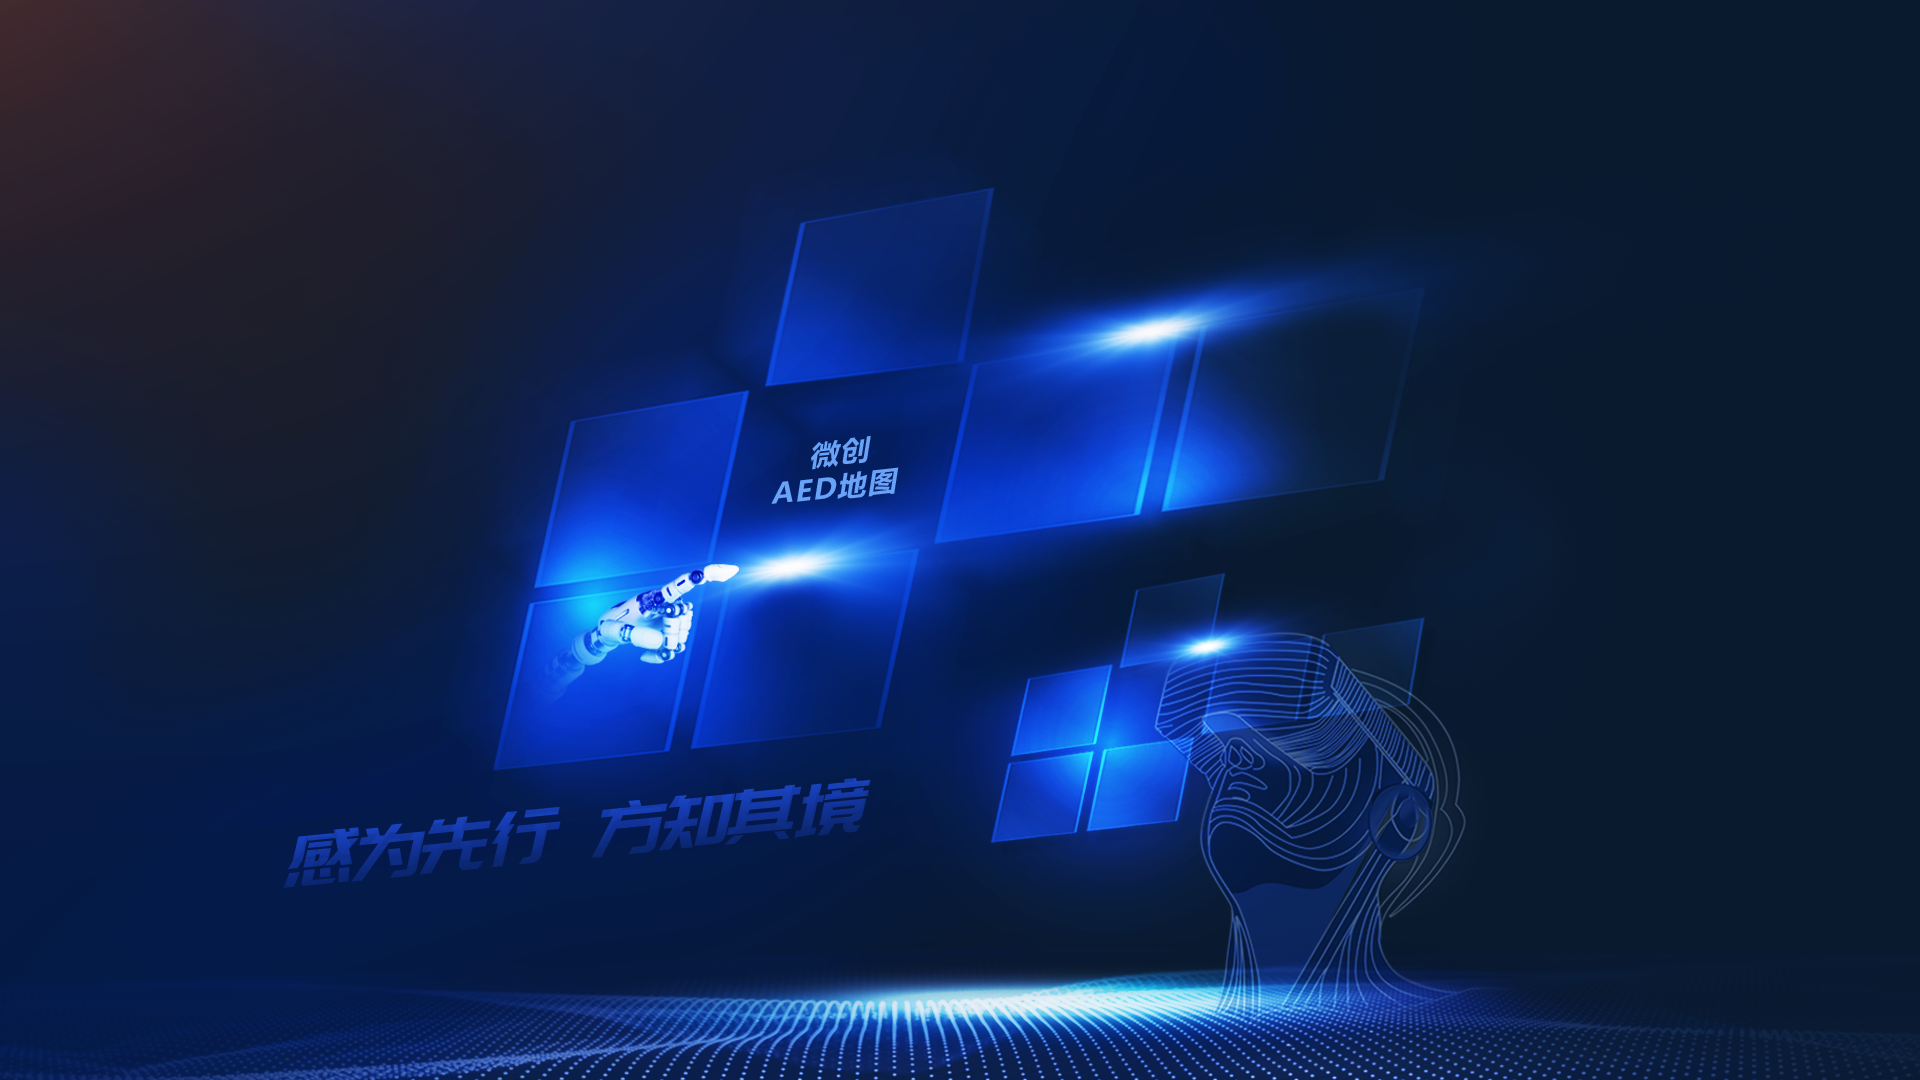
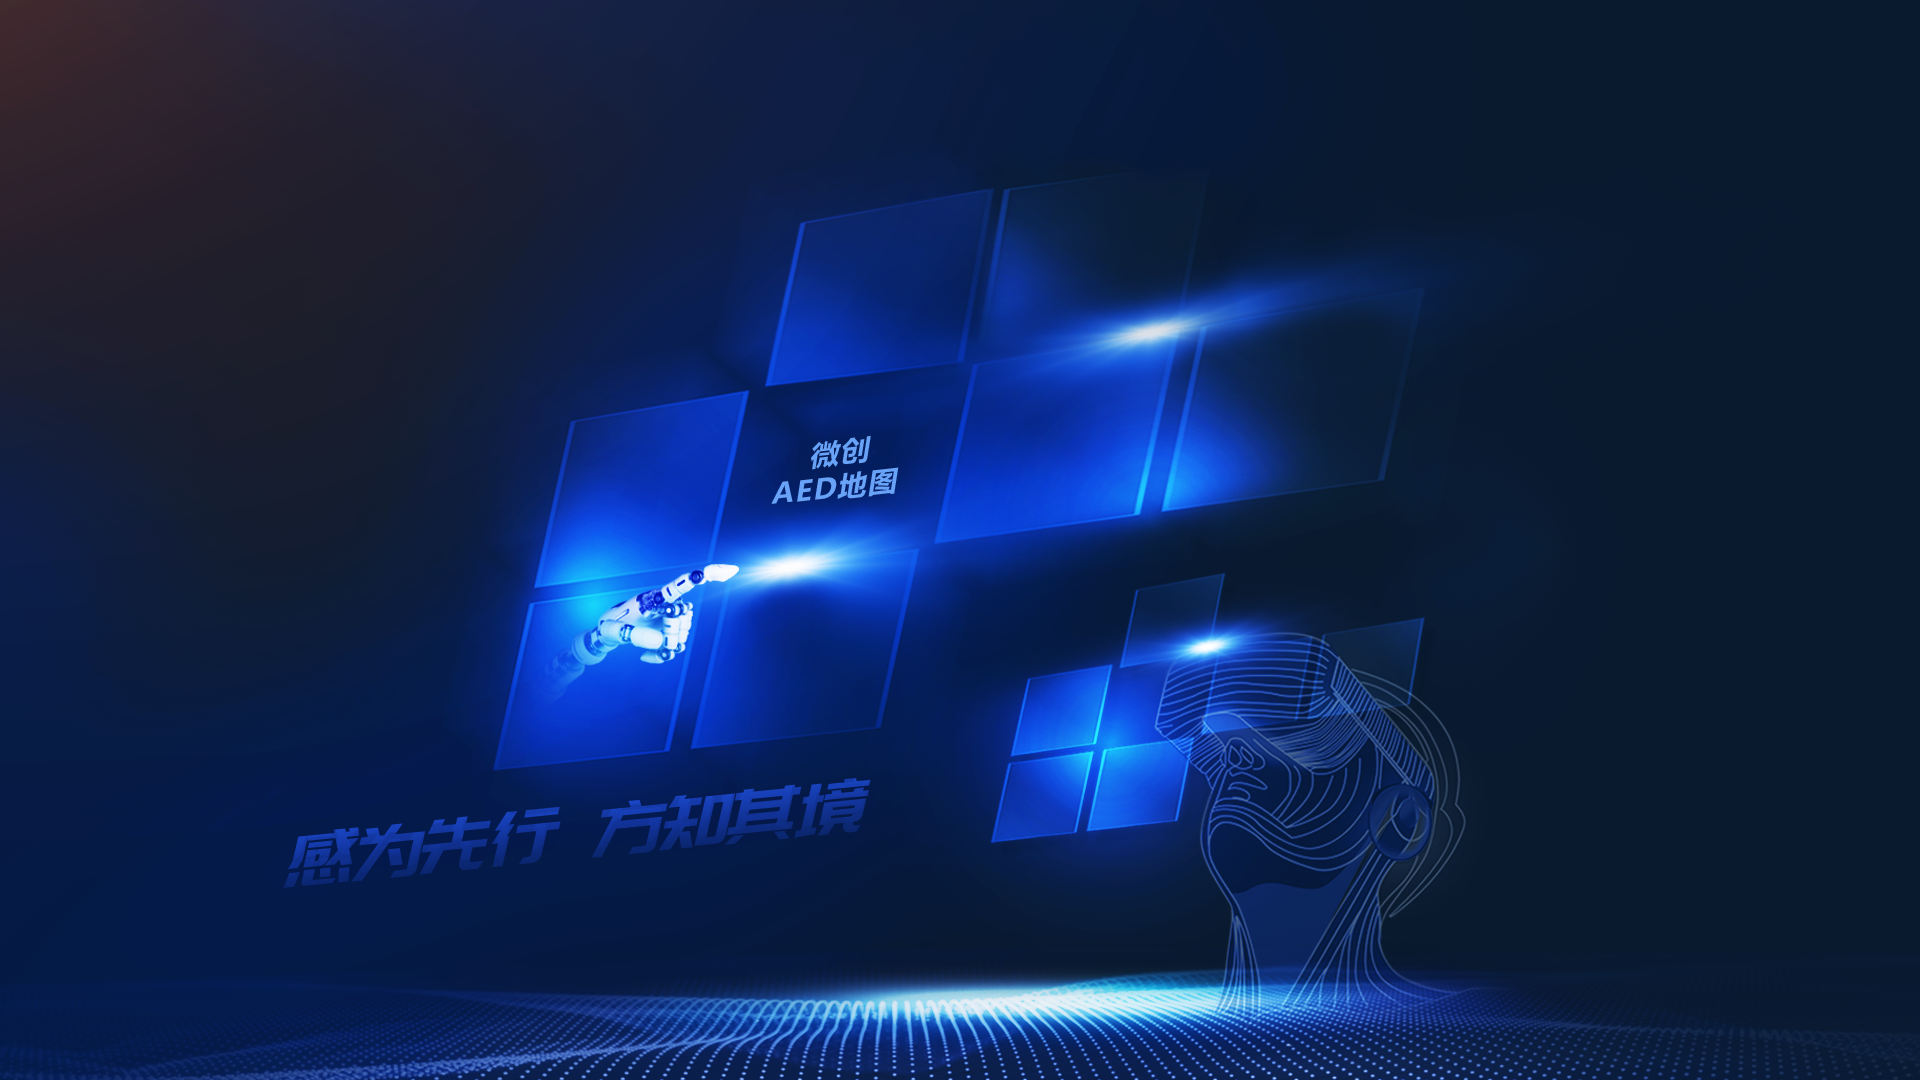
init

Changed region(s): [[0.5, 0.1833, 0.6562, 0.3361]]

diff --git a/src/components/head.vue b/src/components/head.vue
@@ -24,7 +24,7 @@
                 <router-link class="title" tag="a" to="/education-intro">
                     <img src="~@/assets/img/title5.png">
                 </router-link>
-                <div class="title ul">
+                <div class="title ul" style="font-size:15px">
                     <p>AED生命长城</p>
                     <ul>
                         <router-link tag="li" to="/aedtype/1">心脏猝死小科普</router-link>
@@ -109,13 +109,16 @@ main {
         display: flex;
         align-items: center;
         height: 120px;
+        img {
+            vertical-align: middle;
+        }
         .title {
             margin: 0 10px;
             cursor: pointer;
             padding: 10px 0;
         }
         .title1 {
-            margin-left: 40px;
+            margin-left: 15px;
         }
         .search {
             margin-left: 45px;

diff --git a/src/views/Home.vue b/src/views/Home.vue
@@ -22,7 +22,7 @@
             <a href="http://me.amrtang.com/vr_sz/" target="_blank" class="con4" :style="{'left': 348 + width + 'px'}">
                 <img src="~@/assets/img/con4.png">
             </a>
-            <router-link to="/aed" class="con5" :style="{'left': 878 + width + 'px'}">
+            <router-link to="/aed" class="con5" :style="{'left': 838 + width + 'px'}">
                 <img src="~@/assets/img/con5.png">
             </router-link>
         </main>

diff --git a/src/views/aed.vue b/src/views/aed.vue
@@ -1,6 +1,6 @@
 <template>
     <div class="home">
-        <img src="~@/assets/img/home-bg.png" alt="" class="bg">
+        <img src="~@/assets/img/home-bg-2.png" alt="" class="bg">
         <div class="light">
             <img src="~@/assets/img/left-light.png" class="left-light">
             <img src="~@/assets/img/right-light.png" class="right-light">
